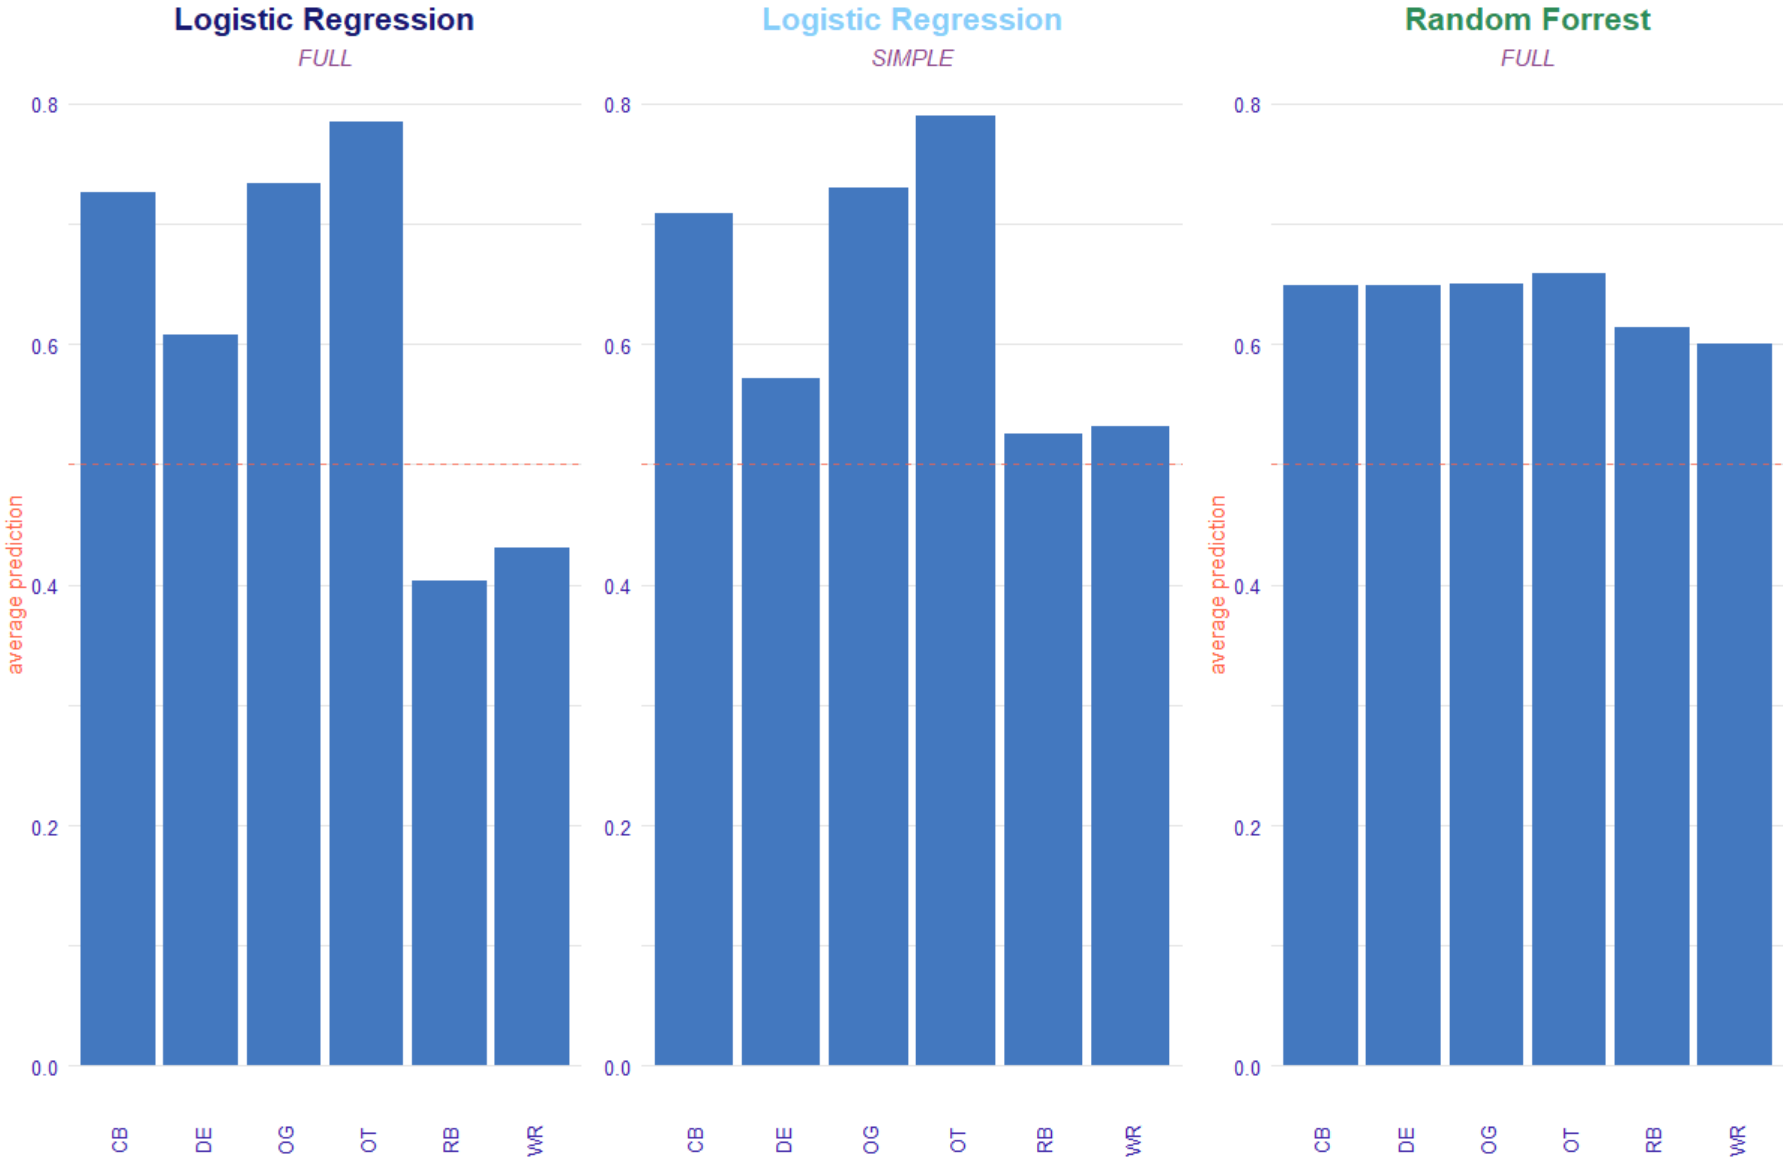
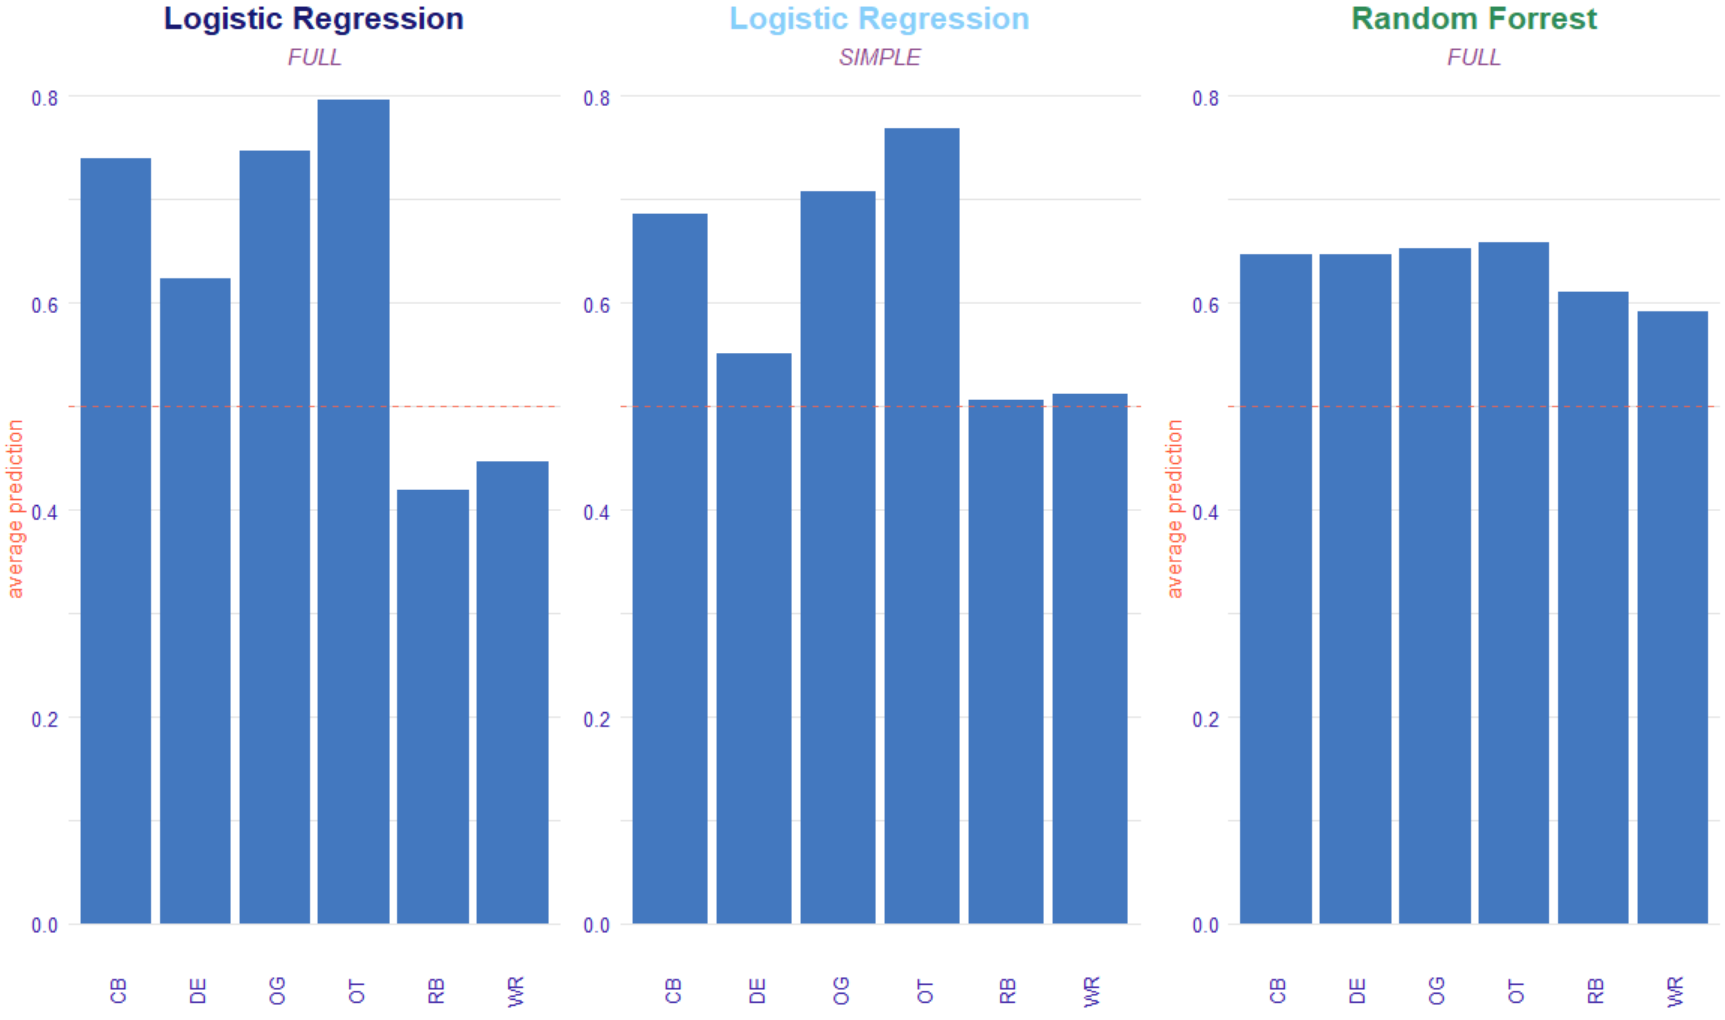
README

diff --git a/README.md b/README.md
@@ -473,7 +473,7 @@ RF-PCA | 0.676 | 0.684 | 0.944 | 0.191 | 0.689 | 0.944 | 0.796
 ---
 
 # Prescriptive Analysis
-> After fitting a model an importance aspect of model assessment is to evaluate which features are important and how they effect the target variable, which in this case is the probability of a player being drafted. For this dataset I will be utilizing the DALEX package which uses a model-agnostic approach to asses feature importance
+> An importance aspect of model assessment is to evaluate which features are important and how they effect the target variable, which in this case is the probability of a player being drafted. For this dataset I will be utilizing the DALEX package which uses a model-agnostic approach to asses feature importance
 
 ## Feature Importance
 > To calculate feature importance the DALEX package first calculates the Loss of the normal model then permutes the variable of the feature in question. And finally takes the difference between the two. _(In this case I used AUC as the Loss Metric)_  
@@ -517,36 +517,37 @@ RF-PCA | 0.676 | 0.684 | 0.944 | 0.191 | 0.689 | 0.944 | 0.796
 
 > **Note (pdp Continuous)**
 
-> **BENCH:** From EDA average Bench Reps for the entire dataset was **_21 reps_**
-> - **Both Models** captures the general shape that as bench reps increase so those the probability of a certain player being drafted.   
-> - **Random Forrest** on average all players in this dataset _based on bench reps_ are predicted to be drafted. It also shows that the relationship between bench reps and the probability of being drafted is monotonic.
-> - **Logistic Regression** players that have a _bench rep below 10 reps_ are predicted on average to not be drafted.
+> **BENCH:** From EDA we saw that the average Bench Reps for the entire dataset was **_21 reps_**. All models capture the general relationship that as bench reps increase so those the probability of a certain player being drafted.  
+> - **Random Forrest** on average all players in this dataset _based on bench reps_ are predicted to be drafted. It also shows that the relationship between bench reps and the probability of being drafted is monotonic. When Bench Reps are below 15 it has the highest predicted probability on average compared to the other models. After 15 approaching 30 reps and more is has the lowest and starts to remain stagnant.
+> - **Logistic Regression (Full)** like random forest Logistic Regression predicted on average all players to be drafted just based on Bench Reps. However when Bench Reps are below 15 the predicted probability is lower then Random Forrest. The probability when Bench Reps between 15 and 30 is similar to Random Forrest. When Bench Reps are above 30 the predicted probability is greater than Random Forrest.
+> - **Logistic Regression (Simple)** When Bench Reps are below 5 the model predicts players not to be drafted. When bench reps are 15 reps and above this model has the highest predicted probability compared to the other two models
 
-> **FORTY**: From EDA average 40 time for the entire dataset was **_4.8 secs_**
-> - **Both Models** show that as 40 time increases the probability of a player being drafted decreases.
-> - **Random Forrest** shows that relationship is monotonic showing a bit of a sharp decrease as 40 time approaches 5.0 seconds. However **RF** still predicts in on average all players to be drafted just based on 40 time.
-> - **Logistic Regression** also captures the general relationship of 40 time and the probability of being drafted. However as 40 time approaches 5.0 seconds **Logistic Regression** starts to predict players not being drafted.
+> **FORTY**: From EDA average 40 time for the entire dataset was **_4.8 secs_**. All models capture the genral relationship that as 40 time increases the probability of a player being drafted decreases.
+> - **Random Forrest** shows that relationship is monotonic. However this model still predicts on average all players to be drafted just based on 40 time. Also the predicted probability drops steadily compared to the linear models. When 40 time is below 4.8 secs random forest has the lowest probability compared to the other models. When 40 time is above 5.0 secs it has the highest probability.  
+> - **Logistic Regression (Full)** As 40 time approaches 5.0 seconds Logistic Regression (Full) starts to predict players not being drafted. It also has a more steep decrease compared to Random Forrest. Compared to the more simpler model, after 4.5 secs the Full Model as a lower predicted probability.
+> - **Logistic Regression (Simple)** This model has the highest predicted probability when 40 time is below 5.0 secs compared to other models. However the model does not predict players to not be drafted until 40 time approaches about 5.2 secs
 
-> **WEIGHT:** From EDA average Weight for the entire dataset was **_251lbs_**
-> - **Both Models** show that in general as weight increases so those the probability of a player being drafted.
-> -**Random Forrest** shows that the relationship between weight and the probability of being drafted is monotonic. **RF** also predicts on average all players to be drafted to be drafted just based on weight.
-> - **Logistic Regression** also captures the general shape that as weight increases so those the probability of a player being drafted. However, if a certain player weighs below 200 **LR** just based on weight will predict that player as not being drafted.
+> **WEIGHT:** From EDA average Weight for the entire dataset was **_251lbs_**. All show the general relationship that as weight increases so those the probability of a player being drafted.
+> - **Random Forrest** shows that the relationship between weight and the probability of being drafted is monotonic. As far as the amount of increase its very steady compared to the linear models. This model also predicts, on average just accounting for Weight all players to be drafted. When Weight is below 200 RF has the highest predicted probability. When Weight is above 250 it has the lowest predicted probability.
+> - **Logistic Regression (Full)** The slope for is much steeper than Random Forrest. When Weight is below 230 this model predicts on average players no to be drafted. When Weight is below around 230 this model has the lowest predicted probability. When weight is above around 250 is has the highest predicted probability  
+> - **Logistic Regression (Simple)** The slope is again much steeper than Random Forrest but not as steep as the Full model. The Simple model only predicts on average players not to be drafted when weight is below about 180. When weight is above 250 the predicted probability of the Simple model is higher than Random Forrest but lower then the Full model.
 
 <img src="Images/PA/pdp_Conference.PNG" width="  1000">
 
 > **Note (pdp Conference)**
 
-> **CONFERENCE:**
-> - **Random Forrest**: just based on conference, shows no matter which conference the player plays for the model will predict them as being drafted, However if a player played for a school in Division I-AA, II, III the probability decreases.
-> - **Logistic Regression** predicts if the player plays for the Sunbelt Conference will have the highest probability of being drafted. If the player plays for the Division I-AA, II, III the player will probably not be drafted.
+> **CONFERENCE:** Just based on Conference all models predict players that played for the "ELITE" conferences will be drafted.
+> - **Random Forrest**: shows no matter which conference the player plays for the model will predict them as being drafted, However if a player played for a school in Division I-AA, II, III the probability decreases.
+> - **Logistic Regression (Full & Simple)** has a bit more variance between conferences than Random Forrest. It also shows that if the player plays for the Division I-AA, II, III the player will probably not be drafted.
 
 <img src="Images/PA/pdp_Position.PNG" width="  1000">
 
 > **Note (pdp Position)**
 
-> **POSITION:**
-> - **_Random Forrest_**: in general if your just differentiating by position the model predicts all position to be drafted. You also don't see a lot a variability, All being around 60%. It does dips slightly when you look at positions (QB, RB, S, SS, TE WR).
-> - **_Logistic Regression_**: you see all lot a variability in the probability of being drafted factored by position. _Offensive Guards & Tackles_ have the highest probability of being drafted at around 70-80%. Edge Rushers, Long Snappers, Quarterbacks, and Safety have lowest probability of being drafted at around 20%
+> **POSITION:** Just based on Position All models show that if the player is an Offensive Lineman they have the highest probablity of being drafted.
+> - **_Random Forrest_**: in general if your just differentiating by position the model predicts all position to be drafted. You also don't see a lot a variability, All being around 60%.
+> - **Logistic Regression (Full)**: you see all lot a variability in the probability of being drafted factored by position. _Offensive Linemen_ have the highest probability of being drafted at around 70-80%. Running backs and Wide Receivers have the lowest around 40%
+> - **Logistic Regression (Simple)**: is very similar to the Full Model, however predicted a higher probability for Running backs and Wide Receivers being around 50%.
 
 ### Partial Dependency: (Conference)
 
@@ -554,32 +555,33 @@ RF-PCA | 0.676 | 0.684 | 0.944 | 0.191 | 0.689 | 0.944 | 0.796
 
 > **Note (Random Forrest- Conference)**
 
-> **BENCH:** From EDA average Bench by Division **_[Elite = 21reps | Division I-A = 21reps | Division I-AA = 21reps | Division II & II = 23reps ]_**
-> - At a High-Level no matter which conference a player plays for as there bench reps increases so does the probability of them being drafted.
-> - What stands out is that players that played for a school in the Division I - AA that a bench rep below 18, the model predicts them as not being drafted
+> **BENCH:** From EDA average Bench by Division **_[Elite = 21reps | Division I-A = 21reps | Division I-AA = 21reps | Division II & II = 23reps ]_**. No matter which conference a player plays for as there bench reps increases so does the probability of them being drafted. Also the relationship for each conference is monotonic.
+> - What stands out is, for players that played for a school in the Division I-AA or Division II or III, if they bench below 20 reps Random Forrest predicts those players on average as not being drafted.
 
-> **FORTY:** From EDA average 40 time by Division **_[ Elite = 4.81secs | Division I-A = 4.78secs | Division I-AA = 4.82secs | Division II & II = 4.89secs ]_**
-> - At a High-Level no matter which conference a player plays for as there 40 time increases the probability of them being drafted decreases.
-> - What stands out is, for a player that played for a school in Division II or III, does not run a 40 time of at least 4.4. There probability of being drafted decreases significantly.
 
-> **WEIGHT:** From EDA average Weight time by Division **_[ Elite = 253lbs | Division I-A = 246lbs | Division I-AA = 252 | Division II & II = 266lbs ]_**
-> - At a High-Level no matter which conference a player plays for as there weight increases so does the probability of them being drafted.
+> **FORTY:** From EDA average 40 time by Division **_[ Elite = 4.81secs | Division I-A = 4.78secs | Division I-AA = 4.82secs | Division II & II = 4.89secs ]_**. No matter which conference a player plays for as there 40 time increases the probability of them being drafted decreases. Also the relationship for each conference is monotonic.
+> - What stands out is, for a players that played for a school in Division I-A (MAC), Division I-AA, Division II or III, if they run a 40 time above 5.5 RF predicts those players on average as not being drafted.
+> -
+
+> **WEIGHT:** From EDA average Weight time by Division **_[ Elite = 253lbs | Division I-A = 246lbs | Division I-AA = 252 | Division II & II = 266lbs ]_**. No matter which conference a player plays for as there weight increases so does the probability of them being drafted. Also the relationship for each conference is monotonic.
+> - What stands out is, for players that played for a school in Division I-A (MAC), Division I-AA, if Weigh below 250lbs RF predicts on average those players as not being drafted. For players that played for a school in Division II or III, if they Weigh below 300 RF predicts on average those players as not being drafted.   
+
+> **GENERAL:** Players that played for a school in the SEC conference had the highest predicted probability across Bench, Forty, Weight statistics and Conferences. Players that played for a school in Division I-AA, II, or III had the lowest probability.
 
 <img src="Images/PA/pdp_Conference_Log_Full.PNG" width="  1000">
 
 > **Note (Logistic Regression - Conference)**
 
-> **BENCH:** From EDA average Bench by Division **_[Elite = 21reps | Division I-A = 21reps | Division I-AA = 21reps | Division II & II = 23reps ]_**
-> - At a High-Level no matter which conference a player plays for as there bench reps increases so does the probability of them being drafted.
-> - What stands out is **For players that played in the Division II or III conference**. They would need to bench at least 25 for them to be drafted
+> **BENCH:** From EDA average Bench by Division **_[Elite = 21reps | Division I-A = 21reps | Division I-AA = 21reps | Division II & II = 23reps ]_**. No matter which conference a player plays for as there bench reps increases so does the probability of them being drafted.
+> - What stands out is, if a player came from the MAC or Mountain West Conference & they Bench below 20 reps, the Full Regression model predicts those players as not being drafted on average. If a player came from Division II & III Conference, no matter the Bench Reps the Full Regression model those players on average as not being drafted.
 
-> **FORTY:** From EDA average 40 time by Division **_[ Elite = 4.81secs | Division I-A = 4.78secs | Division I-AA = 4.82secs | Division II & II = 4.89secs ]_**
-> - At a High-Level no matter which conference a player plays for as there 40 time increases the probability of them being drafted decreases.
+> **FORTY:** From EDA average 40 time by Division **_[ Elite = 4.81secs | Division I-A = 4.78secs | Division I-AA = 4.82secs | Division II & II = 4.89secs ]_**. No matter which conference a player plays for as there 40 time increases the probability of them being drafted decreases.
+> - What stands out is, for a players that played for a school in  Conference USA, Mountain West, Division II or III & they run a 40 time above 4.8 secs, the model predicts those players on average as not being drafted. If a player played for the MAC Conference the Full Regression model will only predict those players as not being drafted unless they run a 40 time above 5.3.
 
-> **WEIGHT:** From EDA average Weight time by Division **_[ Elite = 253lbs | Division I-A = 246lbs | Division I-AA = 252 | Division II & II = 266lbs ]_**
-> - At a High-Level no matter which conference a player plays for as there weight increases so does the probability of them being drafted.
+> **WEIGHT:** From EDA average Weight time by Division **_[ Elite = 253lbs | Division I-A = 246lbs | Division I-AA = 252 | Division II & II = 266lbs ]_**. No matter which conference a player plays for as there weight increases so does the probability of them being drafted.
+> - What stands out is, for players that played for a school in the MAC Conference & the Full Regression Model will only predict those players as being drafted if they weigh above 270lbs. If a player played for a school in Division II or III the Full Regression Model will only predict those players as being drafted if they Weigh above around 350lbs
 
-> **GENERAL:** Players that played in the **Division II or III conferences** would need to perform significantly better than average in the combine to have an equal probability of being drafted for players that played in the more "ELITE" conferences
+> **GENERAL:** The Full Regression predicted the highest probability across Weight for players that played BIG 10 Conference, lowest in the Division II & III Conference. The Full Regression predicted the highest probability across Forty for players that played MAC Conference, lowest in the Division II & III Conference. The Full Regression predicted the highest probability across Weight for players that played in the Conference USA Conference, lowest in the Division II & III Conference.
 
 <img src="Images/PA/pdp_Conference_Log_Simple.PNG" width="  1000">
 
